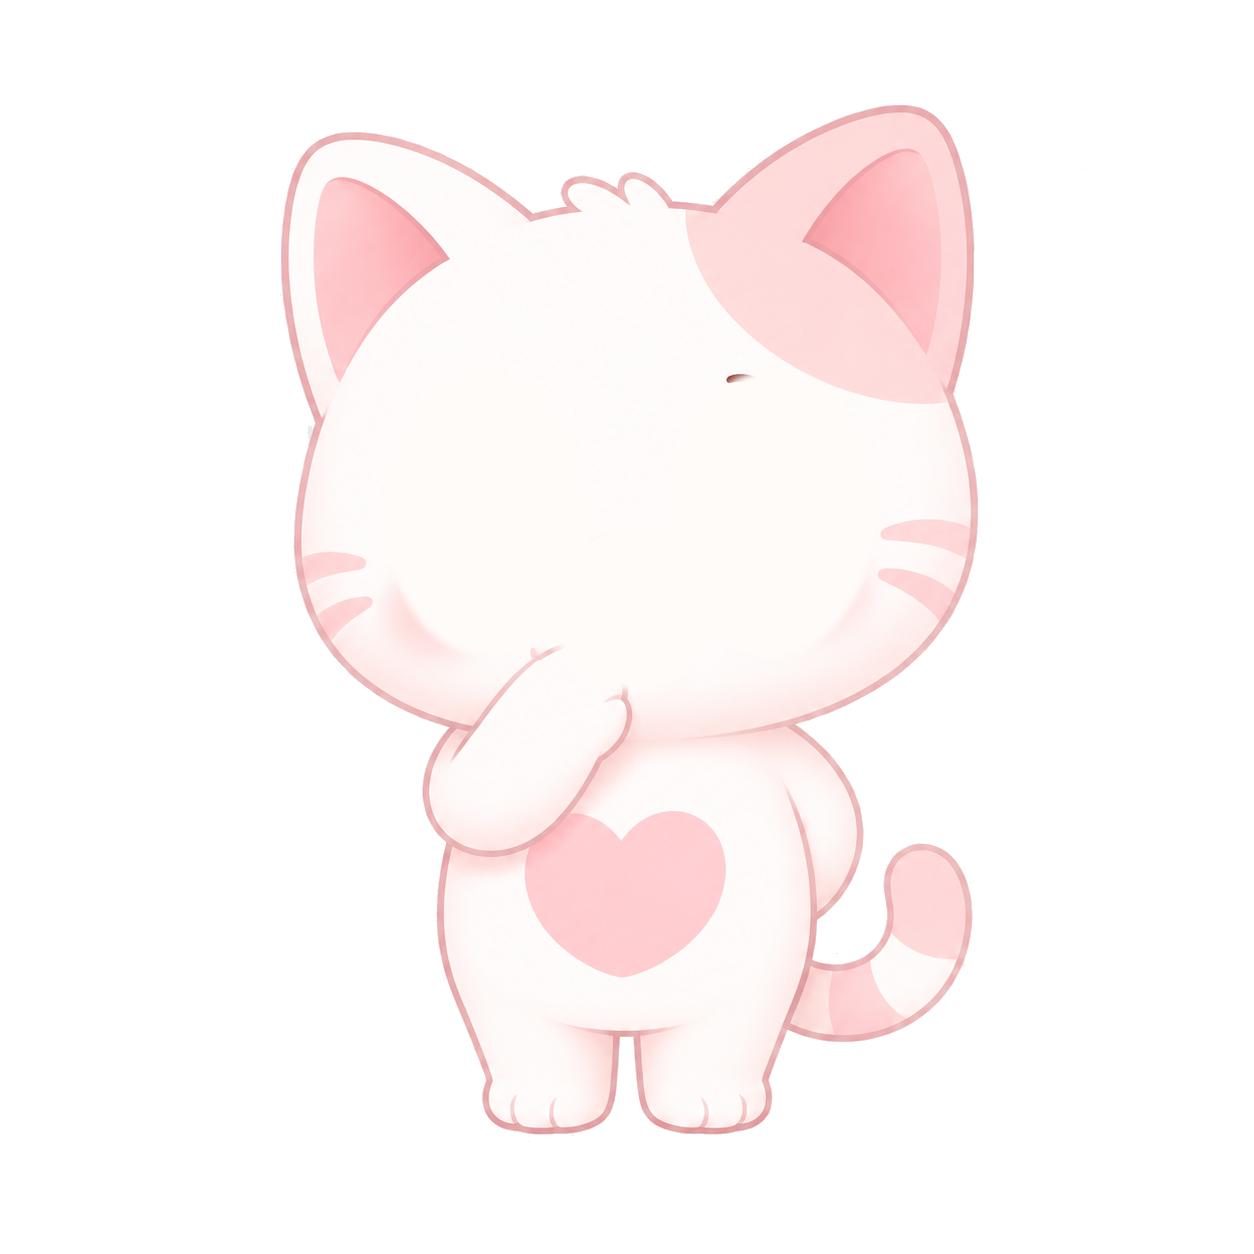
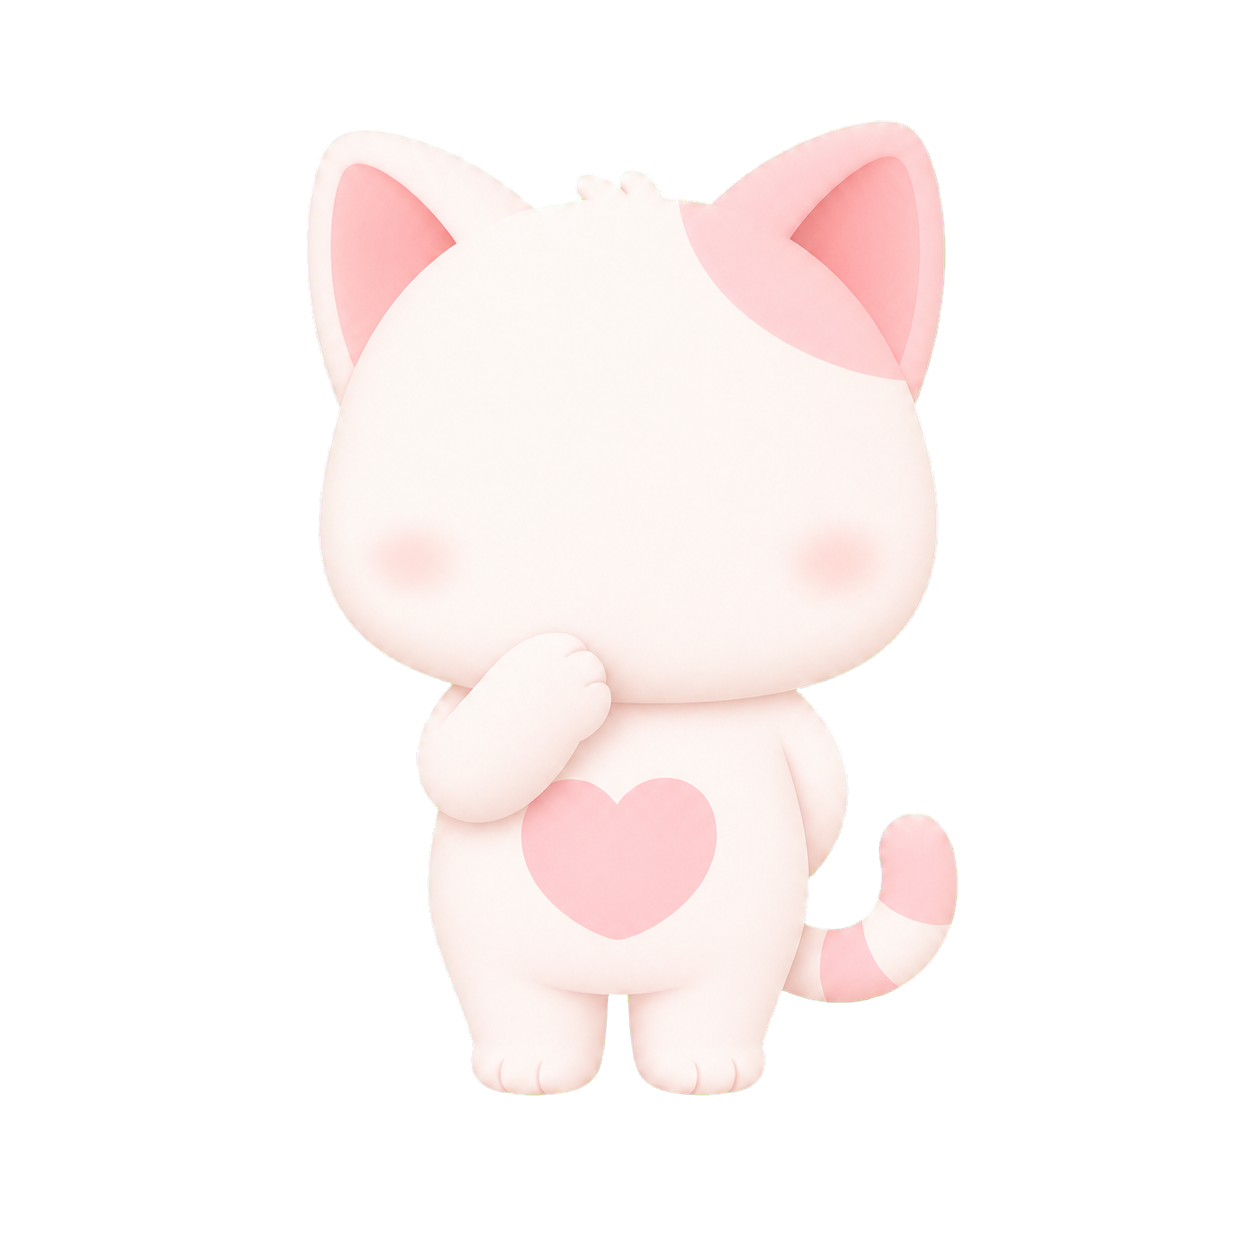
Improve Ttoosseunyang base body alignment

diff --git a/src/components/PetStage.tsx b/src/components/PetStage.tsx
@@ -165,6 +165,7 @@ const ExpressionLayer = styled.img`
   height: 100%;
   object-fit: contain;
   pointer-events: none;
+  transform: translate(-2%, -2.5%);
   user-select: none;
   -webkit-user-drag: none;
 `;

diff --git a/docs/character-asset-prompts.md b/docs/character-asset-prompts.md
@@ -43,19 +43,23 @@ Negative prompt:
 eyes, eyebrows, nose, mouth, smile, tongue, teeth, lips, muzzle line, nostril, facial expression, circular background, glow, shadow, text, watermark, checkerboard background
 ```
 
-## Akkigae Base-Body V1 Notes
+## Preset Base-Body V1 Notes
 
-The current `public/assets/pets/base-body/akkigae.png` was generated with the base-body prompt above using the original `public/assets/pets/akkigae.png` as the identity reference.
+The current preset base-body assets were generated with the base-body prompt above using the original preset PNGs as identity references.
+
+- `public/assets/pets/base-body/akkigae.png`
+- `public/assets/pets/base-body/ttoosseunyang.png`
 
 Post-processing:
 
 - Generated on a flat `#00ff00` chroma-key background.
 - Removed the chroma key locally with `remove_chroma_key.py`.
 - Saved as transparent PNG.
-- Original `public/assets/pets/akkigae.png` remains unchanged.
+- Original `public/assets/pets/*.png` files remain unchanged.
 
 Quality notes:
 
 - Face feature removal is much cleaner than manual erasing.
-- The lower mouth artifact from the previous SVG overlay was fixed by simplifying the Akkigae mouth paths in `public/assets/pet-parts/akkigae/*.svg`.
+- The lower mouth artifact from the previous Akkigae SVG overlay was fixed by simplifying the mouth paths in `public/assets/pet-parts/akkigae/*.svg`.
+- Expression overlays are nudged slightly up-left in `src/components/PetStage.tsx` because the first SVG parts sat a little down-right on the regenerated base-body assets.
 - This is still an MVP asset. Final production should generate or draw `base-body`, `neutral`, `happy`, `sad`, and `wink` as one coordinated style set.
